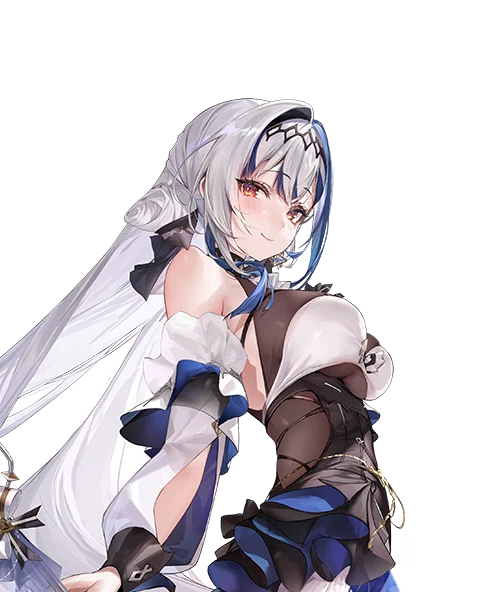
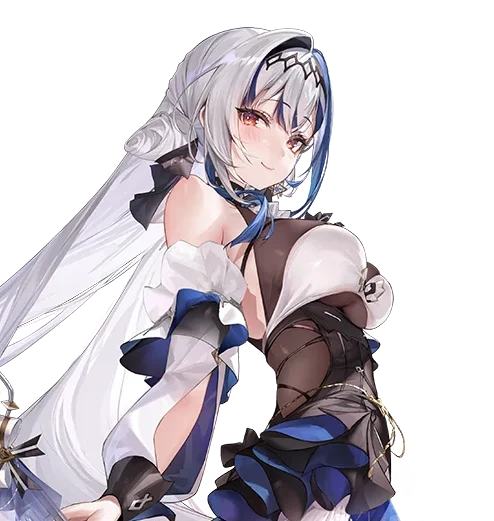
Zona half-body: less empty space on top
Claude-Session: https://claude.ai/code/session_0182ETGqkY6VZC2ACV9rE9Mb

diff --git a/index.html b/index.html
@@ -945,7 +945,7 @@ var TYPES = { All:['ทั้งหมด','All'], VTuber:['VTuber','VTuber'], K
 var TALENTS = [
   { id:'hanami', name:'Hanami Lay', short:'Hanami', ini:'HL', type:'VTuber', aff:'indie', langs:['th'], color:'#FFFFFF', img:'talent-hanami.jpg', face:'talent-hanami-face.jpg', card:'talent-hanami-half.jpg', halves:['talent-hanami-half.jpg'], tags:['#Gaming','#Karaoke','#Drawing','#Chitchat','#Cooking','#HandCam'], works:['promo','review','dub','collab'], links:[['YouTube',70200,'https://www.youtube.com/@HanamiLayCH'],['TikTok',89800,'https://www.tiktok.com/@hanamilay'],['Facebook',29000,'https://www.facebook.com/profile.php?id=61552160366840'],['X',5931,'https://x.com/HanamiLay']], quote:['วีทูปเบอร์ที่สามารถไลฟ์เล่นเกมได้ 24 ชั่วโมงแบบไม่ยอมแพ้ พร้อมอยู่กับคุณตั้งแต่ตอนบอกฝันดีจนตื่นมาอรุณสวัสดิ์','A VTuber who can stream games for 24 hours straight without giving up, here with you from good night all the way to good morning.'] },
   { id:'justpark', name:['Justpark Channel (จีน)','Justpark Channel (Jeen)'], short:'Justpark', ini:'JP', type:'KOL', aff:{name:'GaconX', logo:'logos/gaconx-mark.png'}, langs:['th'], color:'#FFFFFF', img:'talent-justpark.jpg', face:'talent-justpark-face.jpg', tags:['#Gaming'], works:['review'], links:[['YouTube',591000,'https://www.youtube.com/@justparkchannel1419'],['TikTok',13600,'https://www.tiktok.com/@justparkchannel'],['Facebook',34000,'https://www.facebook.com/JeenJustpark'],['Instagram',314,'https://www.instagram.com/justpark_channel/']], quote:['ช่องรีวิวเกมที่ลงคลิปทุกวัน...... ที่ทำเสร็จ','A game review channel with a new clip every day...... that gets finished.'] },
-  { id:'zona', halves:['talent-zona-half.webp'], card:'talent-zona-half.webp', img:'talent-zona.webp', face:'talent-zona-face.webp?v=7',  name:'ZONA', short:'ZONA', ini:'ZN', type:'VTuber', aff:{name:'Polygon', logo:'logos/polygon-mark.png'}, langs:['th','en','jp'], color:'#CFE6FF', tags:['#Singing','#FreeTalk','#Gaming'], works:['promo','review','cover','collab','dub'], links:[['YouTube',172662,'https://www.youtube.com/c/ZonaCh'],['TikTok',63715,'https://www.tiktok.com/@zonaplg'],['Facebook',35123,'https://www.facebook.com/ZONAPolygon'],['X',53983,'http://twitter.com/ZonaPLG']], quote:['โซน่า ออก้าแห่งท้องทะเลผู้รักในเสียงเพลงและเท่(ซน)มาก','Zona, the music-loving orca of the sea. Super cool (and super cheeky).'] },
+  { id:'zona', halves:['talent-zona-half.webp?v=2'], card:'talent-zona-half.webp?v=2', img:'talent-zona.webp', face:'talent-zona-face.webp?v=7',  name:'ZONA', short:'ZONA', ini:'ZN', type:'VTuber', aff:{name:'Polygon', logo:'logos/polygon-mark.png'}, langs:['th','en','jp'], color:'#CFE6FF', tags:['#Singing','#FreeTalk','#Gaming'], works:['promo','review','cover','collab','dub'], links:[['YouTube',172662,'https://www.youtube.com/c/ZonaCh'],['TikTok',63715,'https://www.tiktok.com/@zonaplg'],['Facebook',35123,'https://www.facebook.com/ZONAPolygon'],['X',53983,'http://twitter.com/ZonaPLG']], quote:['โซน่า ออก้าแห่งท้องทะเลผู้รักในเสียงเพลงและเท่(ซน)มาก','Zona, the music-loving orca of the sea. Super cool (and super cheeky).'] },
   { id:'hoku', halves:['talent-hoku-half.webp'], card:'talent-hoku-half.webp', img:'talent-hoku.webp?v=3', face:'talent-hoku-face.webp?v=7',  name:'Hoku', short:'Hoku', ini:'HK', type:'VTuber', aff:{name:'Polygon', logo:'logos/polygon-mark.png'}, langs:['th','en'], color:'#E9DFC8', tags:['#Singing','#FreeTalk','#Gaming','#Horror'], works:['promo','review','cover','collab','dub'], links:[['YouTube',119655,'https://www.youtube.com/@HokuPLG'],['TikTok',35000,'https://www.tiktok.com/@hokuplg'],['Facebook',23440,'http://facebook.com/HokuPolygon'],['X',32083,'http://twitter.com/HokuPLG']], quote:['โฮคุ นกฮูกเปี่ยมไมตรีที่ชอบเรื่องผีและหาทำ','Hoku, a friendly owl who loves ghost stories and always finds something to get into.'] },
   { id:'lucene', halves:['talent-lucene-half.webp'], card:'talent-lucene-half.webp', img:'talent-lucene.webp', face:'talent-lucene-face.webp?v=7',  name:'Lucene', short:'Lucene', ini:'LC', type:'VTuber', aff:{name:'Polygon', logo:'logos/polygon-mark.png'}, langs:['th','en'], color:'#FDE2EE', tags:['#Singing','#FreeTalk','#Gaming','#Gacha'], works:['promo','review','cover','collab','dub'], links:[['YouTube',83400,'https://www.youtube.com/@LucenePLG'],['TikTok',24071,'https://www.tiktok.com/@plglucene'],['Facebook',20102,'https://www.facebook.com/LucenePolygon'],['X',19508,'https://x.com/LucenePLG']], quote:['ลูเซเน่ กระต่ายอนิเมะผู้เสกความสดใสและชอบเสี่ยงดวง💸','Lucene, an anime bunny who conjures up cheer and loves to try her luck 💸'] },
   { id:'lapine', halves:['talent-lapine-half.webp'], card:'talent-lapine-half.webp', img:'talent-lapine.webp', face:'talent-lapine-face.webp?v=7',  name:'Lapine', short:'Lapine', ini:'LP', type:'VTuber', aff:{name:'Polygon', logo:'logos/polygon-mark.png'}, langs:['th','en'], color:'#FFD9E4', tags:['#Singing','#FreeTalk','#Gaming'], works:['promo','review','cover','collab','dub'], links:[['YouTube',69355,'https://www.youtube.com/@LapinePLG'],['TikTok',8885,'https://www.tiktok.com/@lapineplg'],['Facebook',16150,'https://www.facebook.com/LapinePolygon'],['X',20482,'https://x.com/LapinePLG']], quote:['ลาพิเน่ กระต่ายสีชมพูที่คุณดูแล้วต้องกำหมัด','Lapine, the pink bunny so cute you will clench your fists.'] },
